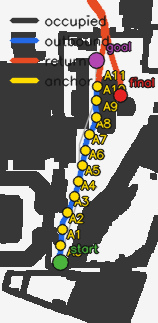
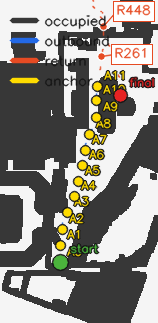
Refine top-down route map styling

Changed region(s): [[0.4304, 0.0, 0.9873, 0.6811], [0.3544, 0.6502, 0.4557, 0.774], [0.3544, 0.774, 0.4051, 0.805]]

diff --git a/code/topdown_route_map.py b/code/topdown_route_map.py
@@ -191,6 +191,133 @@ def _polyline(image: np.ndarray, points_xy: list[list[float]], meta: dict, color
     cv2.polylines(image, [pts], isClosed=False, color=color, thickness=thickness, lineType=cv2.LINE_AA)
 
 
+def _dashed_polyline(
+    image: np.ndarray,
+    points_xy: list[list[float]],
+    meta: dict,
+    color: tuple[int, int, int],
+    thickness: int = 1,
+    dash_px: float = 7.0,
+    gap_px: float = 5.0,
+) -> None:
+    if len(points_xy) < 2:
+        return
+    pts = [np.asarray(world_to_pixel(p, meta), dtype=np.float32) for p in points_xy]
+    period = float(dash_px + gap_px)
+    cursor = 0.0
+    for start, end in zip(pts[:-1], pts[1:]):
+        delta = end - start
+        length = float(np.linalg.norm(delta))
+        if length < 1e-6:
+            continue
+        direction = delta / length
+        local = 0.0
+        while local < length:
+            phase = cursor % period
+            if phase < dash_px:
+                draw_len = min(dash_px - phase, length - local)
+                p0 = start + direction * local
+                p1 = start + direction * (local + draw_len)
+                cv2.line(
+                    image,
+                    tuple(np.round(p0).astype(int)),
+                    tuple(np.round(p1).astype(int)),
+                    color,
+                    thickness,
+                    cv2.LINE_AA,
+                )
+            else:
+                draw_len = min(period - phase, length - local)
+            local += draw_len
+            cursor += draw_len
+
+
+def _draw_return_timestamps(
+    image: np.ndarray,
+    return_records: list[dict],
+    meta: dict,
+    color: tuple[int, int, int],
+    max_labels: int = 6,
+) -> None:
+    if len(return_records) < 2 or max_labels <= 0:
+        return
+    first_step = int(return_records[0].get("step", 0))
+    pixel_points: list[tuple[int, int]] = []
+    valid_records: list[dict] = []
+    for record in return_records:
+        pos = record.get("position")
+        if pos is None:
+            continue
+        px, py = world_to_pixel(pos[:2], meta)
+        if 0 <= px < image.shape[1] and 0 <= py < image.shape[0]:
+            pixel_points.append((px, py))
+            valid_records.append(record)
+    if len(pixel_points) < 2:
+        return
+    cumulative = [0.0]
+    for a, b in zip(pixel_points[:-1], pixel_points[1:]):
+        cumulative.append(cumulative[-1] + float(math.hypot(b[0] - a[0], b[1] - a[1])))
+    total_distance = cumulative[-1]
+    if total_distance < 1.0:
+        return
+    sample_count = min(max_labels, max(1, int(total_distance // 18)))
+    targets = np.linspace(
+        total_distance / float(sample_count + 1),
+        total_distance * sample_count / float(sample_count + 1),
+        sample_count,
+        dtype=np.float32,
+    )
+    sample_indices = [int(np.searchsorted(cumulative, float(target))) for target in targets]
+    used_boxes: list[tuple[int, int, int, int]] = [(0, 0, 108, 92)]
+    offsets = [(10, -12), (-54, -12), (10, 10), (-54, 10), (10, -30), (-54, -30)]
+    def overlaps(box: tuple[int, int, int, int]) -> bool:
+        x0, y0, x1, y1 = box
+        for ox0, oy0, ox1, oy1 in used_boxes:
+            if x0 <= ox1 and x1 >= ox0 and y0 <= oy1 and y1 >= oy0:
+                return True
+        return False
+
+    for label_idx, record_idx in enumerate(sample_indices):
+        record = valid_records[min(int(record_idx), len(valid_records) - 1)]
+        step = int(record.get("step", first_step))
+        elapsed = step - first_step
+        px, py = pixel_points[min(int(record_idx), len(pixel_points) - 1)]
+        label = f"R{elapsed}"
+        (text_w, text_h), baseline = cv2.getTextSize(label, cv2.FONT_HERSHEY_SIMPLEX, 0.42, 1)
+        chosen = None
+        for dx, dy in offsets[label_idx % len(offsets):] + offsets[:label_idx % len(offsets)]:
+            box_x0 = px + dx
+            box_y0 = py + dy
+            box_x0 = max(1, min(image.shape[1] - text_w - 8, box_x0))
+            box_y0 = max(1, min(image.shape[0] - text_h - baseline - 7, box_y0))
+            box_x1 = box_x0 + text_w + 6
+            box_y1 = box_y0 + text_h + baseline + 6
+            box = (box_x0, box_y0, box_x1, box_y1)
+            if not overlaps(box):
+                chosen = box
+                break
+        if chosen is None:
+            continue
+        box_x0, box_y0, box_x1, box_y1 = chosen
+        used_boxes.append(chosen)
+        cv2.circle(image, (px, py), 3, color, -1, lineType=cv2.LINE_AA)
+        cv2.circle(image, (px, py), 4, (255, 255, 255), 1, lineType=cv2.LINE_AA)
+        line_x = box_x0 + 3 if (box_x0 + box_x1) * 0.5 >= px else box_x1 - 3
+        cv2.line(image, (px, py), (int(line_x), box_y0 + text_h), color, 1, cv2.LINE_AA)
+        cv2.rectangle(image, (box_x0, box_y0), (box_x1, box_y1), (255, 255, 255), -1)
+        cv2.rectangle(image, (box_x0, box_y0), (box_x1, box_y1), color, 1)
+        cv2.putText(
+            image,
+            label,
+            (box_x0 + 3, box_y1 - baseline - 3),
+            cv2.FONT_HERSHEY_SIMPLEX,
+            0.42,
+            color,
+            1,
+            cv2.LINE_AA,
+        )
+
+
 def _draw_marker(
     image: np.ndarray,
     xy: Iterable[float],
@@ -252,13 +379,17 @@ def render_route_overlay(
         for r in trajectory_records
         if r.get("phase") == "outbound" and r.get("position") is not None
     ]
-    ret = [
-        [float(r["position"][0]), float(r["position"][1])]
-        for r in trajectory_records
+    return_records = [
+        r for r in trajectory_records
         if r.get("phase") == "return" and r.get("position") is not None
     ]
-    _polyline(image, outbound, meta, (230, 105, 35), 3)
-    _polyline(image, ret, meta, (35, 75, 230), 3)
+    ret = [
+        [float(r["position"][0]), float(r["position"][1])]
+        for r in return_records
+    ]
+    _dashed_polyline(image, outbound, meta, (230, 105, 35), thickness=1, dash_px=4.0, gap_px=16.0)
+    _dashed_polyline(image, ret, meta, (35, 75, 230), thickness=1, dash_px=4.0, gap_px=16.0)
+    _draw_return_timestamps(image, return_records, meta, (35, 75, 230))
 
     anchors = (route_memory_summary or {}).get("anchors") or []
     for anchor in anchors:
